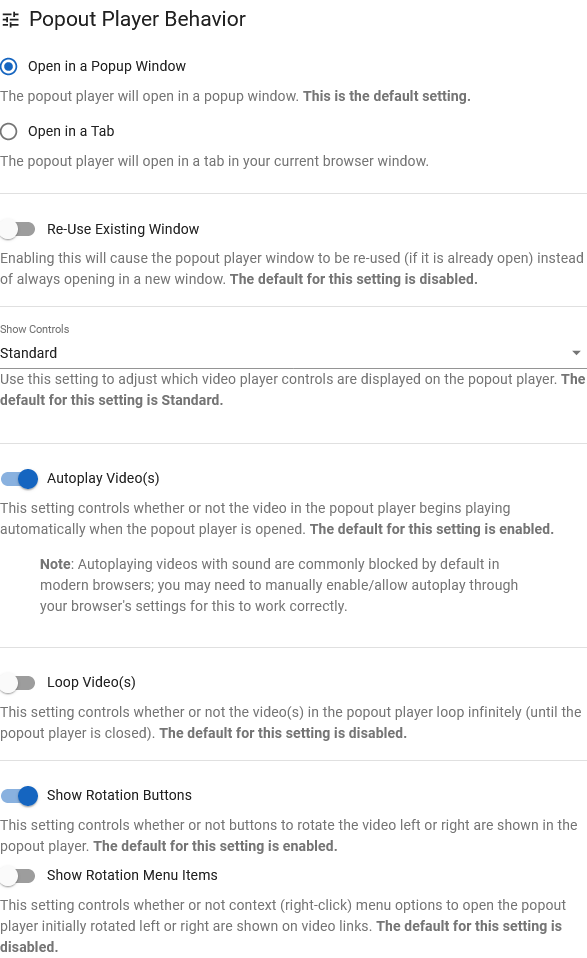
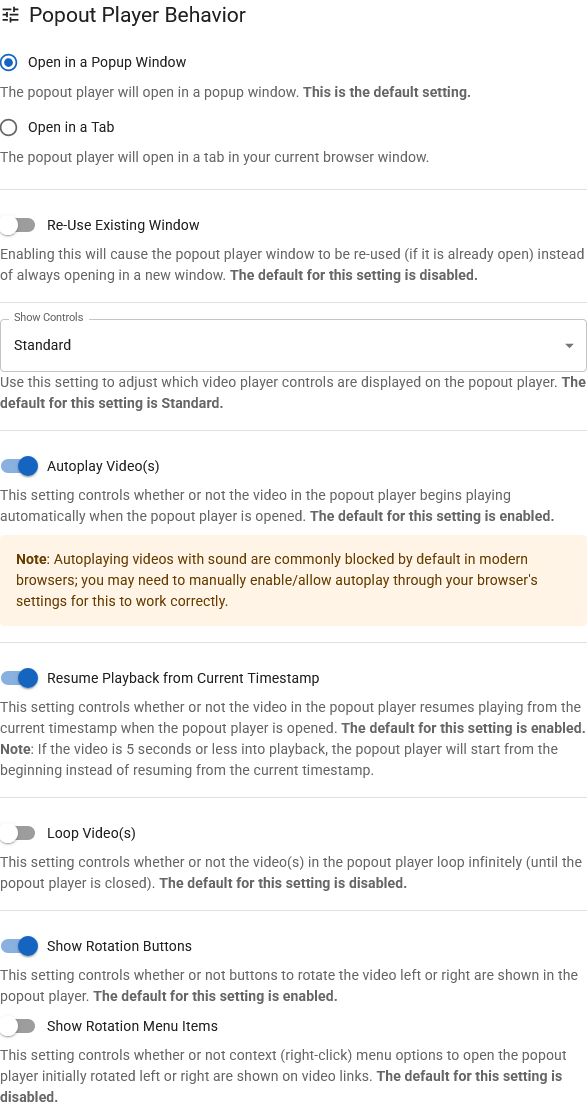
update documentation and screenshot for new "Resume Playback from Current Timestamp" option (re #431)

Changed region(s): [[0.0, 0.0, 1.0, 0.999]]

diff --git a/docs/pages/options.html b/docs/pages/options.html
@@ -12,7 +12,7 @@ order: 5
 
     <div class="card white">
         <div class="card-content">
-            <span class="card-title red-text"><strong>Popout Player Behavior</strong> <span class="badge grey darken-3 white-text">Updated in v4.4</span></span>
+            <span class="card-title red-text"><strong>Popout Player Behavior</strong> <span class="badge grey darken-3 white-text">Updated in v5.1.2</span></span>
             <p>These are the basic settings for configuring the YouTube Popout Player. You can control where the popout player opens, which controls are shown for video(s) in the popout player (if any), and whether or not video(s) start playing automatically and/or loop indefinitely.</p>
         </div>
 
@@ -68,6 +68,12 @@ order: 5
                 <dt>Autoplay Video(s)</dt>
                 <dd>
                     <p>This setting controls whether or not the video in the popout player begins playing automatically when the popout player is opened. <strong>The default for this setting is enabled.</strong></p>
+                </dd>
+
+                <dt>Resume Playback from Current Timestamp <span class="badge red white-text">New in v5.1.2</span></dt>
+                <dd>
+                    <p>This setting controls whether or not the video in the popout player resumes playing from the current timestamp when the popout player is opened. <strong>The default for this setting is enabled.</strong></p>
+                    <p><strong>Note</strong>: If the video is 5 seconds or less into playback, the popout player will start from the beginning instead of resuming from the current timestamp.</p>
                 </dd>
 
                 <dt>Loop Video(s)</dt>
